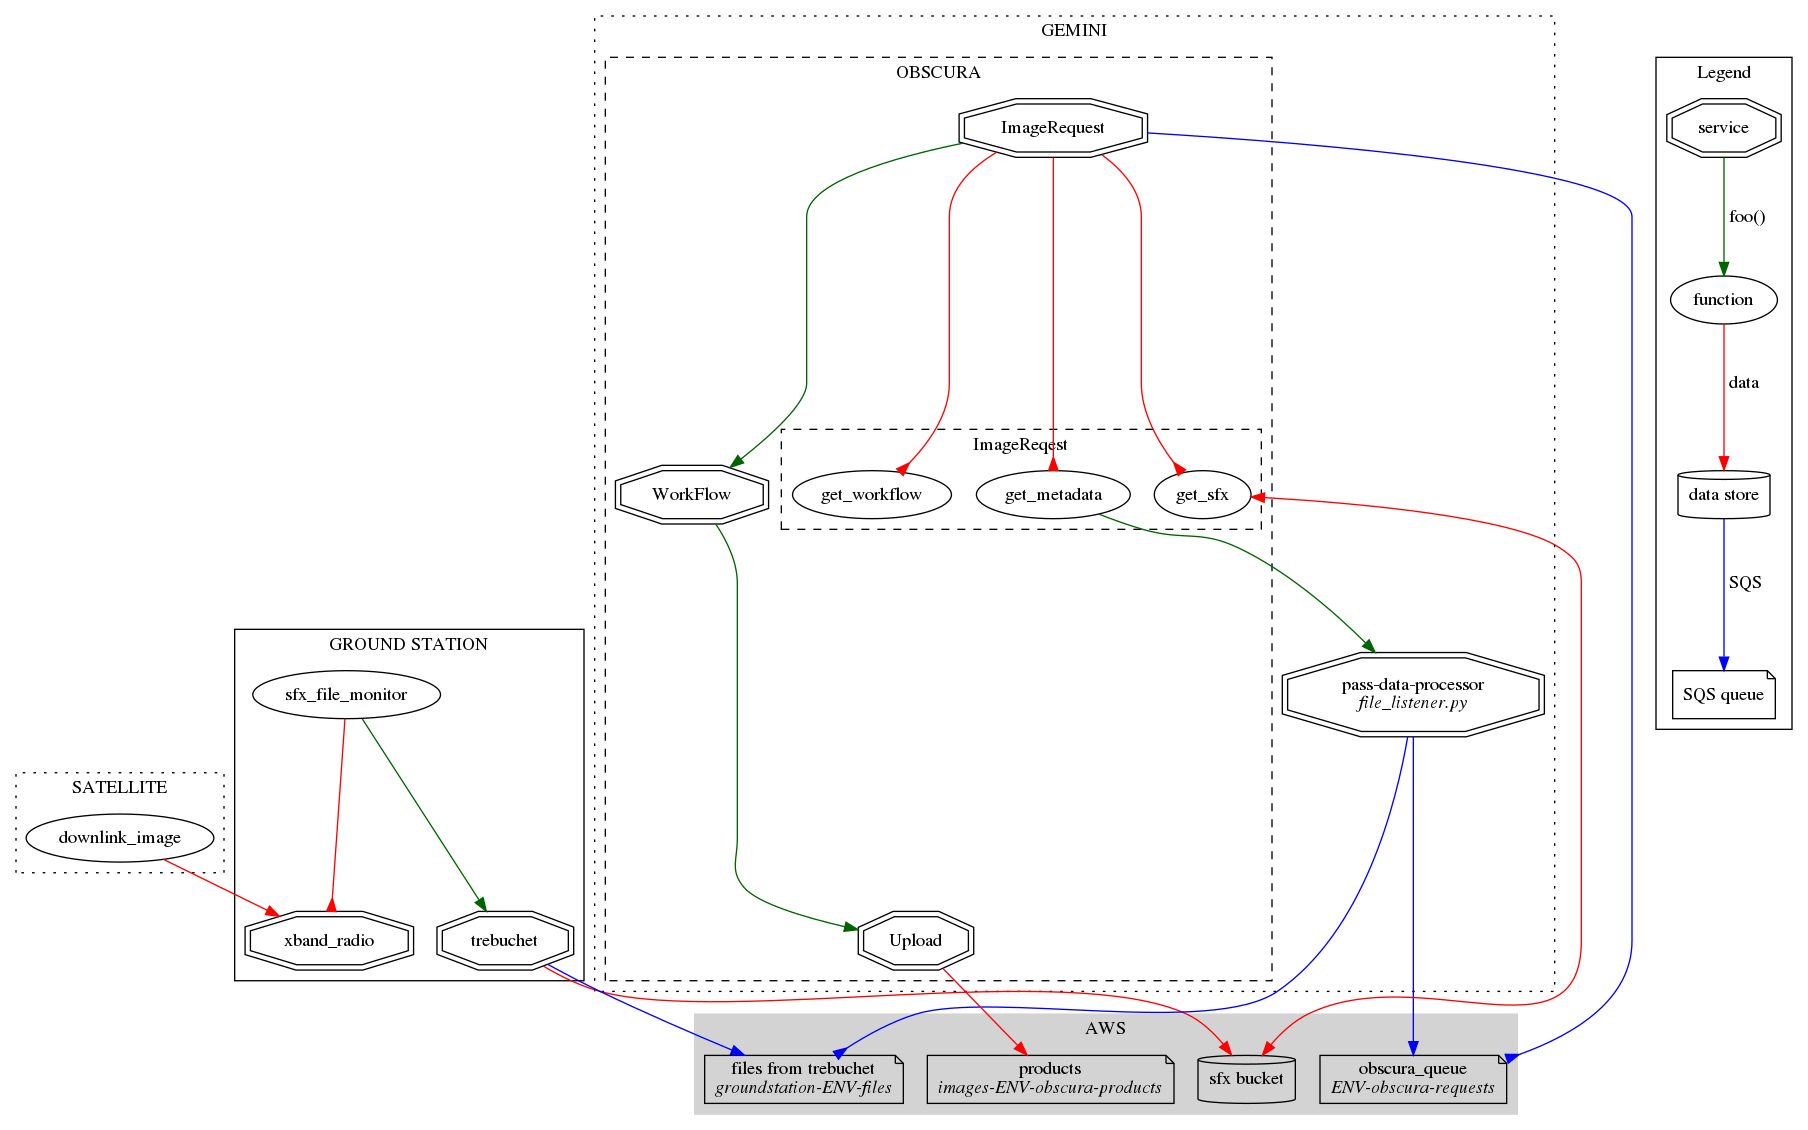
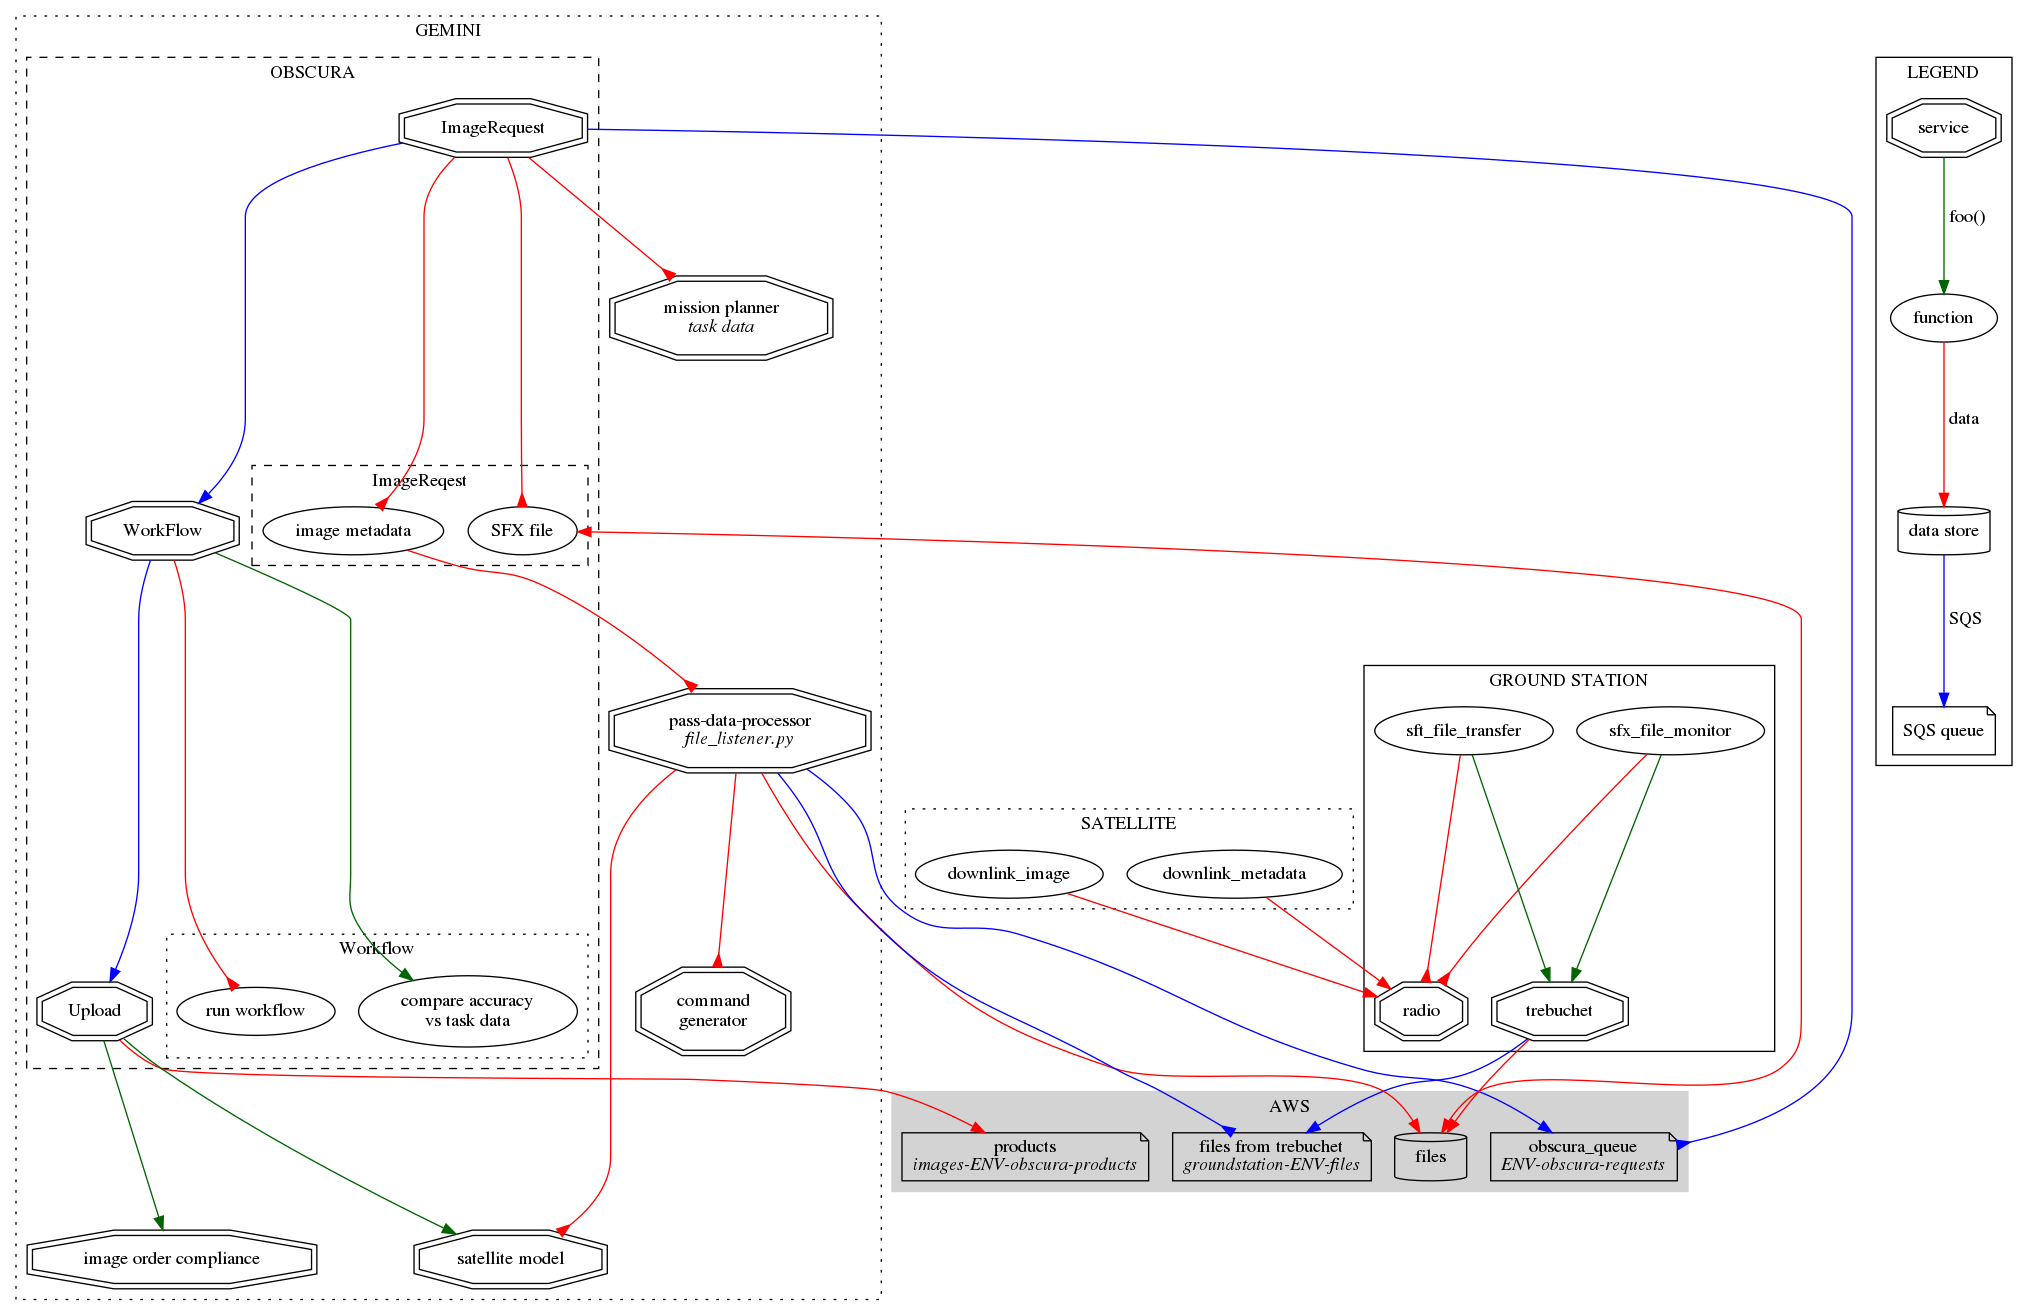
filled out obscura graph

diff --git a/Python/misc_blacksky/multi_image_high_level_graph.py b/Python/misc_blacksky/multi_image_high_level_graph.py
@@ -14,21 +14,26 @@ G = graphviz.Digraph(format='png', filename='multi_image_overview.dg')
 # SATELLITE
 with G.subgraph(name='clustersat') as c:
     c.attr(label='SATELLITE', style='dotted')
-    c.node('satellite', label='downlink_image', shape=process)
+    c.node('image', label='downlink_image', shape=process)
+    c.node('metadata', label='downlink_metadata', shape=process)
 
-G.edge('satellite', 'xband_radio', color=data_color)
+G.edge('image', 'xband_radio', color=data_color)
+G.edge('metadata', 'xband_radio', color=data_color)
 
 
 # GROUNDSTATION
 with G.subgraph(name='clustergroundstation') as c:
     c.attr(label='GROUND STATION')
-    c.node('xband_radio', shape=service_shape)
+    c.node('xband_radio', label='radio', shape=service_shape)
     c.node('rlm', label='sfx_file_monitor', shape=process)
+    c.node('sft', label='sft_file_transfer', shape=process)
     c.node('trebuchet', shape=service_shape)
 
 G.edge('rlm', 'xband_radio', dir='forward', arrowhead='inv', color=data_color)
+G.edge('sft', 'xband_radio', dir='forward', arrowhead='inv', color=data_color)
 G.edge('rlm', 'trebuchet', color=fx_call)
-G.edge('trebuchet', 'sfx_s3', color=data_color)
+G.edge('sft', 'trebuchet', color=fx_call)
+G.edge('trebuchet', 'files_s3', color=data_color)
 G.edge('trebuchet', 'env_files', color=sqs_color)
 G.edge('pdp', 'env_files', dir='forward', arrowhead='inv', color=sqs_color)
 
@@ -37,7 +42,7 @@ G.edge('pdp', 'env_files', dir='forward', arrowhead='inv', color=sqs_color)
 with G.subgraph(name='clusteraws') as c:
     c.attr(label='AWS', style='filled', color='lightgrey')
     # c.node_attr.update(style='filled', color='white')
-    c.node('sfx_s3', label='sfx bucket', shape=data_store)
+    c.node('files_s3', label='files', shape=data_store)
 
     c.node('obscura_queue', label='<obscura_queue<BR/><I>ENV-obscura-requests</I>>', shape=queue)
     c.node('env_files', label='<files from trebuchet<BR/><I>groundstation-ENV-files</I>>', shape=queue)
@@ -48,6 +53,10 @@ with G.subgraph(name='clusteraws') as c:
 with G.subgraph(name='clustergemini') as gem:
     gem.attr(label='GEMINI', style='dotted')
     gem.node('pdp', label='<pass-data-processor<BR/><I>file_listener.py</I>>', shape=service_shape)
+    gem.node('satmodel', label='satellite model', shape=service_shape)
+    gem.node('compliance', label='image order compliance', shape=service_shape)
+    gem.node('planner', label='<mission planner<BR/><I>task data</I>>', shape=service_shape)
+    gem.node('cmd_gen', label='<command<BR/>generator>', shape=service_shape)
 
     # OBSCURA
     with gem.subgraph(name='clusterobscura') as c:
@@ -57,27 +66,35 @@ with G.subgraph(name='clustergemini') as gem:
         c.node('upload', label='Upload', shape=service_shape)
         with c.subgraph(name='clusterimgreq') as cc:
             cc.attr(label='ImageReqest')
-            cc.node('get_sfx', shape=process)
-            cc.node('get_metadata', shape=process)
-            cc.node('get_workflow', shape=process)
+            cc.node('get_sfx', label='SFX file', shape=process)
+            cc.node('get_metadata', label='image metadata', shape=process)
         with c.subgraph(name='clusterwf') as cc:
             cc.attr(label='Workflow', style='dotted')
-        with c.subgraph(name='clusterupdload') as cc:
-            cc.attr(label='Upload', style='dotted')
+            cc.node('run_wf', label='run workflow', shape=process)
+            cc.node('examine_task', label='<compare accuracy<BR/>vs task data>', shape=process)
+        # with c.subgraph(name='clusterupdload') as cc:
+        #     cc.attr(label='Upload', style='dotted')
 
-G.edge('pdp', 'obscura_queue', color=sqs_color, )  # label='<s3 key and bucket,<BR/>sat model, timestamp>', )
+G.edge('pdp', 'satmodel', arrowhead='inv', dir='forward', color=data_color)
+G.edge('pdp', 'cmd_gen', arrowhead='inv', dir='forward', color=data_color)
+G.edge('pdp', 'files_s3', color=data_color)
+G.edge('pdp', 'obscura_queue', color=sqs_color)
 
 G.edge('img_req', 'obscura_queue', arrowhead='inv', dir='forward', color=sqs_color)
 G.edge('img_req', 'get_sfx', arrowhead='inv', dir='forward', color=data_color)
-G.edge('get_sfx', 'sfx_s3', dir='both', color=data_color)
+G.edge('get_sfx', 'files_s3', dir='both', color=data_color)
 G.edge('img_req', 'get_metadata', arrowhead='inv', dir='forward', color=data_color)
-G.edge('get_metadata', 'pdp', color=fx_call)
-G.edge('img_req', 'get_workflow', arrowhead='inv', dir='forward', color=data_color)
+G.edge('get_metadata', 'pdp', arrowhead='inv', dir='forward', color=data_color)
+G.edge('img_req', 'planner', arrowhead='inv', dir='forward', color=data_color)
 
-G.edge('img_req', 'workflow', color=fx_call)
+G.edge('img_req', 'workflow', color=sqs_color)
+G.edge('workflow', 'run_wf', arrowhead='inv', dir='forward', color=data_color)
+G.edge('workflow', 'examine_task', color=fx_call)
 
-G.edge('workflow', 'upload', color=fx_call)
+G.edge('workflow', 'upload', color=sqs_color)
 G.edge('upload', 'final_product', color=data_color)
+G.edge('upload', 'satmodel', color=fx_call)
+G.edge('upload', 'compliance', color=fx_call)
 
 
 with G.subgraph(name='clusterlegend') as legend:
@@ -91,5 +108,9 @@ with G.subgraph(name='clusterlegend') as legend:
     legend.edge('b', 'c', label=' data', color=data_color)
     legend.edge('c', 'd', label=' SQS', color=sqs_color)
 
+# G.attr(engine='neato')
+# G.attr(layout='fdp')
 # G.attr(splines='ortho')
+G.attr(overlap='scale')
+G.attr(overlap_shrink='true')
 G.render()

diff --git a/Python/misc_blacksky/obscura_high_level_graph.py b/Python/misc_blacksky/obscura_high_level_graph.py
@@ -14,21 +14,26 @@ G = graphviz.Digraph(format='png', filename='obscura_overview.dg')
 # SATELLITE
 with G.subgraph(name='clustersat') as c:
     c.attr(label='SATELLITE', style='dotted')
-    c.node('satellite', label='downlink_image', shape=process)
+    c.node('image', label='downlink_image', shape=process)
+    c.node('metadata', label='downlink_metadata', shape=process)
 
-G.edge('satellite', 'xband_radio', color=data_color)
+G.edge('image', 'xband_radio', color=data_color)
+G.edge('metadata', 'xband_radio', color=data_color)
 
 
 # GROUNDSTATION
 with G.subgraph(name='clustergroundstation') as c:
     c.attr(label='GROUND STATION')
-    c.node('xband_radio', shape=service_shape)
+    c.node('xband_radio', label='radio', shape=service_shape)
     c.node('rlm', label='sfx_file_monitor', shape=process)
+    c.node('sft', label='sft_file_transfer', shape=process)
     c.node('trebuchet', shape=service_shape)
 
 G.edge('rlm', 'xband_radio', dir='forward', arrowhead='inv', color=data_color)
+G.edge('sft', 'xband_radio', dir='forward', arrowhead='inv', color=data_color)
 G.edge('rlm', 'trebuchet', color=fx_call)
-G.edge('trebuchet', 'sfx_s3', color=data_color)
+G.edge('sft', 'trebuchet', color=fx_call)
+G.edge('trebuchet', 'files_s3', color=data_color)
 G.edge('trebuchet', 'env_files', color=sqs_color)
 G.edge('pdp', 'env_files', dir='forward', arrowhead='inv', color=sqs_color)
 
@@ -37,7 +42,7 @@ G.edge('pdp', 'env_files', dir='forward', arrowhead='inv', color=sqs_color)
 with G.subgraph(name='clusteraws') as c:
     c.attr(label='AWS', style='filled', color='lightgrey')
     # c.node_attr.update(style='filled', color='white')
-    c.node('sfx_s3', label='sfx bucket', shape=data_store)
+    c.node('files_s3', label='files', shape=data_store)
 
     c.node('obscura_queue', label='<obscura_queue<BR/><I>ENV-obscura-requests</I>>', shape=queue)
     c.node('env_files', label='<files from trebuchet<BR/><I>groundstation-ENV-files</I>>', shape=queue)
@@ -48,6 +53,10 @@ with G.subgraph(name='clusteraws') as c:
 with G.subgraph(name='clustergemini') as gem:
     gem.attr(label='GEMINI', style='dotted')
     gem.node('pdp', label='<pass-data-processor<BR/><I>file_listener.py</I>>', shape=service_shape)
+    gem.node('satmodel', label='satellite model', shape=service_shape)
+    gem.node('compliance', label='image order compliance', shape=service_shape)
+    gem.node('planner', label='<mission planner<BR/><I>task data</I>>', shape=service_shape)
+    gem.node('cmd_gen', label='<command<BR/>generator>', shape=service_shape)
 
     # OBSCURA
     with gem.subgraph(name='clusterobscura') as c:
@@ -57,27 +66,35 @@ with G.subgraph(name='clustergemini') as gem:
         c.node('upload', label='Upload', shape=service_shape)
         with c.subgraph(name='clusterimgreq') as cc:
             cc.attr(label='ImageReqest')
-            cc.node('get_sfx', shape=process)
-            cc.node('get_metadata', shape=process)
-            cc.node('get_workflow', shape=process)
+            cc.node('get_sfx', label='SFX file', shape=process)
+            cc.node('get_metadata', label='image metadata', shape=process)
         with c.subgraph(name='clusterwf') as cc:
             cc.attr(label='Workflow', style='dotted')
-        with c.subgraph(name='clusterupdload') as cc:
-            cc.attr(label='Upload', style='dotted')
+            cc.node('run_wf', label='run workflow', shape=process)
+            cc.node('examine_task', label='<compare accuracy<BR/>vs task data>', shape=process)
+        # with c.subgraph(name='clusterupdload') as cc:
+        #     cc.attr(label='Upload', style='dotted')
 
-G.edge('pdp', 'obscura_queue', color=sqs_color, )  # label='<s3 key and bucket,<BR/>sat model, timestamp>', )
+G.edge('pdp', 'satmodel', arrowhead='inv', dir='forward', color=data_color)
+G.edge('pdp', 'cmd_gen', arrowhead='inv', dir='forward', color=data_color)
+G.edge('pdp', 'files_s3', color=data_color)
+G.edge('pdp', 'obscura_queue', color=sqs_color)
 
 G.edge('img_req', 'obscura_queue', arrowhead='inv', dir='forward', color=sqs_color)
 G.edge('img_req', 'get_sfx', arrowhead='inv', dir='forward', color=data_color)
-G.edge('get_sfx', 'sfx_s3', dir='both', color=data_color)
+G.edge('get_sfx', 'files_s3', dir='both', color=data_color)
 G.edge('img_req', 'get_metadata', arrowhead='inv', dir='forward', color=data_color)
-G.edge('get_metadata', 'pdp', color=fx_call)
-G.edge('img_req', 'get_workflow', arrowhead='inv', dir='forward', color=data_color)
+G.edge('get_metadata', 'pdp', arrowhead='inv', dir='forward', color=data_color)
+G.edge('img_req', 'planner', arrowhead='inv', dir='forward', color=data_color)
 
-G.edge('img_req', 'workflow', color=fx_call)
+G.edge('img_req', 'workflow', color=sqs_color)
+G.edge('workflow', 'run_wf', arrowhead='inv', dir='forward', color=data_color)
+G.edge('workflow', 'examine_task', color=fx_call)
 
-G.edge('workflow', 'upload', color=fx_call)
+G.edge('workflow', 'upload', color=sqs_color)
 G.edge('upload', 'final_product', color=data_color)
+G.edge('upload', 'satmodel', color=fx_call)
+G.edge('upload', 'compliance', color=fx_call)
 
 
 with G.subgraph(name='clusterlegend') as legend:
@@ -91,5 +108,9 @@ with G.subgraph(name='clusterlegend') as legend:
     legend.edge('b', 'c', label=' data', color=data_color)
     legend.edge('c', 'd', label=' SQS', color=sqs_color)
 
+# G.attr(engine='neato')
+# G.attr(layout='fdp')
 # G.attr(splines='ortho')
+G.attr(overlap='scale')
+G.attr(overlap_shrink='true')
 G.render()

diff --git a/Python/misc_blacksky/rgt_high_level_graph.py b/Python/misc_blacksky/rgt_high_level_graph.py
@@ -14,21 +14,26 @@ G = graphviz.Digraph(format='png', filename='rgt_overview.dg')
 # SATELLITE
 with G.subgraph(name='clustersat') as c:
     c.attr(label='SATELLITE', style='dotted')
-    c.node('satellite', label='downlink_image', shape=process)
+    c.node('image', label='downlink_image', shape=process)
+    c.node('metadata', label='downlink_metadata', shape=process)
 
-G.edge('satellite', 'xband_radio', color=data_color)
+G.edge('image', 'xband_radio', color=data_color)
+G.edge('metadata', 'xband_radio', color=data_color)
 
 
 # GROUNDSTATION
 with G.subgraph(name='clustergroundstation') as c:
     c.attr(label='GROUND STATION')
-    c.node('xband_radio', shape=service_shape)
+    c.node('xband_radio', label='radio', shape=service_shape)
     c.node('rlm', label='sfx_file_monitor', shape=process)
+    c.node('sft', label='sft_file_transfer', shape=process)
     c.node('trebuchet', shape=service_shape)
 
 G.edge('rlm', 'xband_radio', dir='forward', arrowhead='inv', color=data_color)
+G.edge('sft', 'xband_radio', dir='forward', arrowhead='inv', color=data_color)
 G.edge('rlm', 'trebuchet', color=fx_call)
-G.edge('trebuchet', 'sfx_s3', color=data_color)
+G.edge('sft', 'trebuchet', color=fx_call)
+G.edge('trebuchet', 'files_s3', color=data_color)
 G.edge('trebuchet', 'env_files', color=sqs_color)
 G.edge('pdp', 'env_files', dir='forward', arrowhead='inv', color=sqs_color)
 
@@ -37,7 +42,7 @@ G.edge('pdp', 'env_files', dir='forward', arrowhead='inv', color=sqs_color)
 with G.subgraph(name='clusteraws') as c:
     c.attr(label='AWS', style='filled', color='lightgrey')
     # c.node_attr.update(style='filled', color='white')
-    c.node('sfx_s3', label='sfx bucket', shape=data_store)
+    c.node('files_s3', label='files', shape=data_store)
 
     c.node('obscura_queue', label='<obscura_queue<BR/><I>ENV-obscura-requests</I>>', shape=queue)
     c.node('env_files', label='<files from trebuchet<BR/><I>groundstation-ENV-files</I>>', shape=queue)
@@ -48,6 +53,10 @@ with G.subgraph(name='clusteraws') as c:
 with G.subgraph(name='clustergemini') as gem:
     gem.attr(label='GEMINI', style='dotted')
     gem.node('pdp', label='<pass-data-processor<BR/><I>file_listener.py</I>>', shape=service_shape)
+    gem.node('satmodel', label='satellite model', shape=service_shape)
+    gem.node('compliance', label='image order compliance', shape=service_shape)
+    gem.node('planner', label='<mission planner<BR/><I>task data</I>>', shape=service_shape)
+    gem.node('cmd_gen', label='<command<BR/>generator>', shape=service_shape)
 
     # OBSCURA
     with gem.subgraph(name='clusterobscura') as c:
@@ -57,27 +66,35 @@ with G.subgraph(name='clustergemini') as gem:
         c.node('upload', label='Upload', shape=service_shape)
         with c.subgraph(name='clusterimgreq') as cc:
             cc.attr(label='ImageReqest')
-            cc.node('get_sfx', shape=process)
-            cc.node('get_metadata', shape=process)
-            cc.node('get_workflow', shape=process)
+            cc.node('get_sfx', label='SFX file', shape=process)
+            cc.node('get_metadata', label='image metadata', shape=process)
         with c.subgraph(name='clusterwf') as cc:
             cc.attr(label='Workflow', style='dotted')
-        with c.subgraph(name='clusterupdload') as cc:
-            cc.attr(label='Upload', style='dotted')
+            cc.node('run_wf', label='run workflow', shape=process)
+            cc.node('examine_task', label='<compare accuracy<BR/>vs task data>', shape=process)
+        # with c.subgraph(name='clusterupdload') as cc:
+        #     cc.attr(label='Upload', style='dotted')
 
-G.edge('pdp', 'obscura_queue', color=sqs_color, )  # label='<s3 key and bucket,<BR/>sat model, timestamp>', )
+G.edge('pdp', 'satmodel', arrowhead='inv', dir='forward', color=data_color)
+G.edge('pdp', 'cmd_gen', arrowhead='inv', dir='forward', color=data_color)
+G.edge('pdp', 'files_s3', color=data_color)
+G.edge('pdp', 'obscura_queue', color=sqs_color)
 
 G.edge('img_req', 'obscura_queue', arrowhead='inv', dir='forward', color=sqs_color)
 G.edge('img_req', 'get_sfx', arrowhead='inv', dir='forward', color=data_color)
-G.edge('get_sfx', 'sfx_s3', dir='both', color=data_color)
+G.edge('get_sfx', 'files_s3', dir='both', color=data_color)
 G.edge('img_req', 'get_metadata', arrowhead='inv', dir='forward', color=data_color)
-G.edge('get_metadata', 'pdp', color=fx_call)
-G.edge('img_req', 'get_workflow', arrowhead='inv', dir='forward', color=data_color)
+G.edge('get_metadata', 'pdp', arrowhead='inv', dir='forward', color=data_color)
+G.edge('img_req', 'planner', arrowhead='inv', dir='forward', color=data_color)
 
-G.edge('img_req', 'workflow', color=fx_call)
+G.edge('img_req', 'workflow', color=sqs_color)
+G.edge('workflow', 'run_wf', arrowhead='inv', dir='forward', color=data_color)
+G.edge('workflow', 'examine_task', color=fx_call)
 
-G.edge('workflow', 'upload', color=fx_call)
+G.edge('workflow', 'upload', color=sqs_color)
 G.edge('upload', 'final_product', color=data_color)
+G.edge('upload', 'satmodel', color=fx_call)
+G.edge('upload', 'compliance', color=fx_call)
 
 
 with G.subgraph(name='clusterlegend') as legend:
@@ -91,5 +108,9 @@ with G.subgraph(name='clusterlegend') as legend:
     legend.edge('b', 'c', label=' data', color=data_color)
     legend.edge('c', 'd', label=' SQS', color=sqs_color)
 
+# G.attr(engine='neato')
+# G.attr(layout='fdp')
 # G.attr(splines='ortho')
+G.attr(overlap='scale')
+G.attr(overlap_shrink='true')
 G.render()
